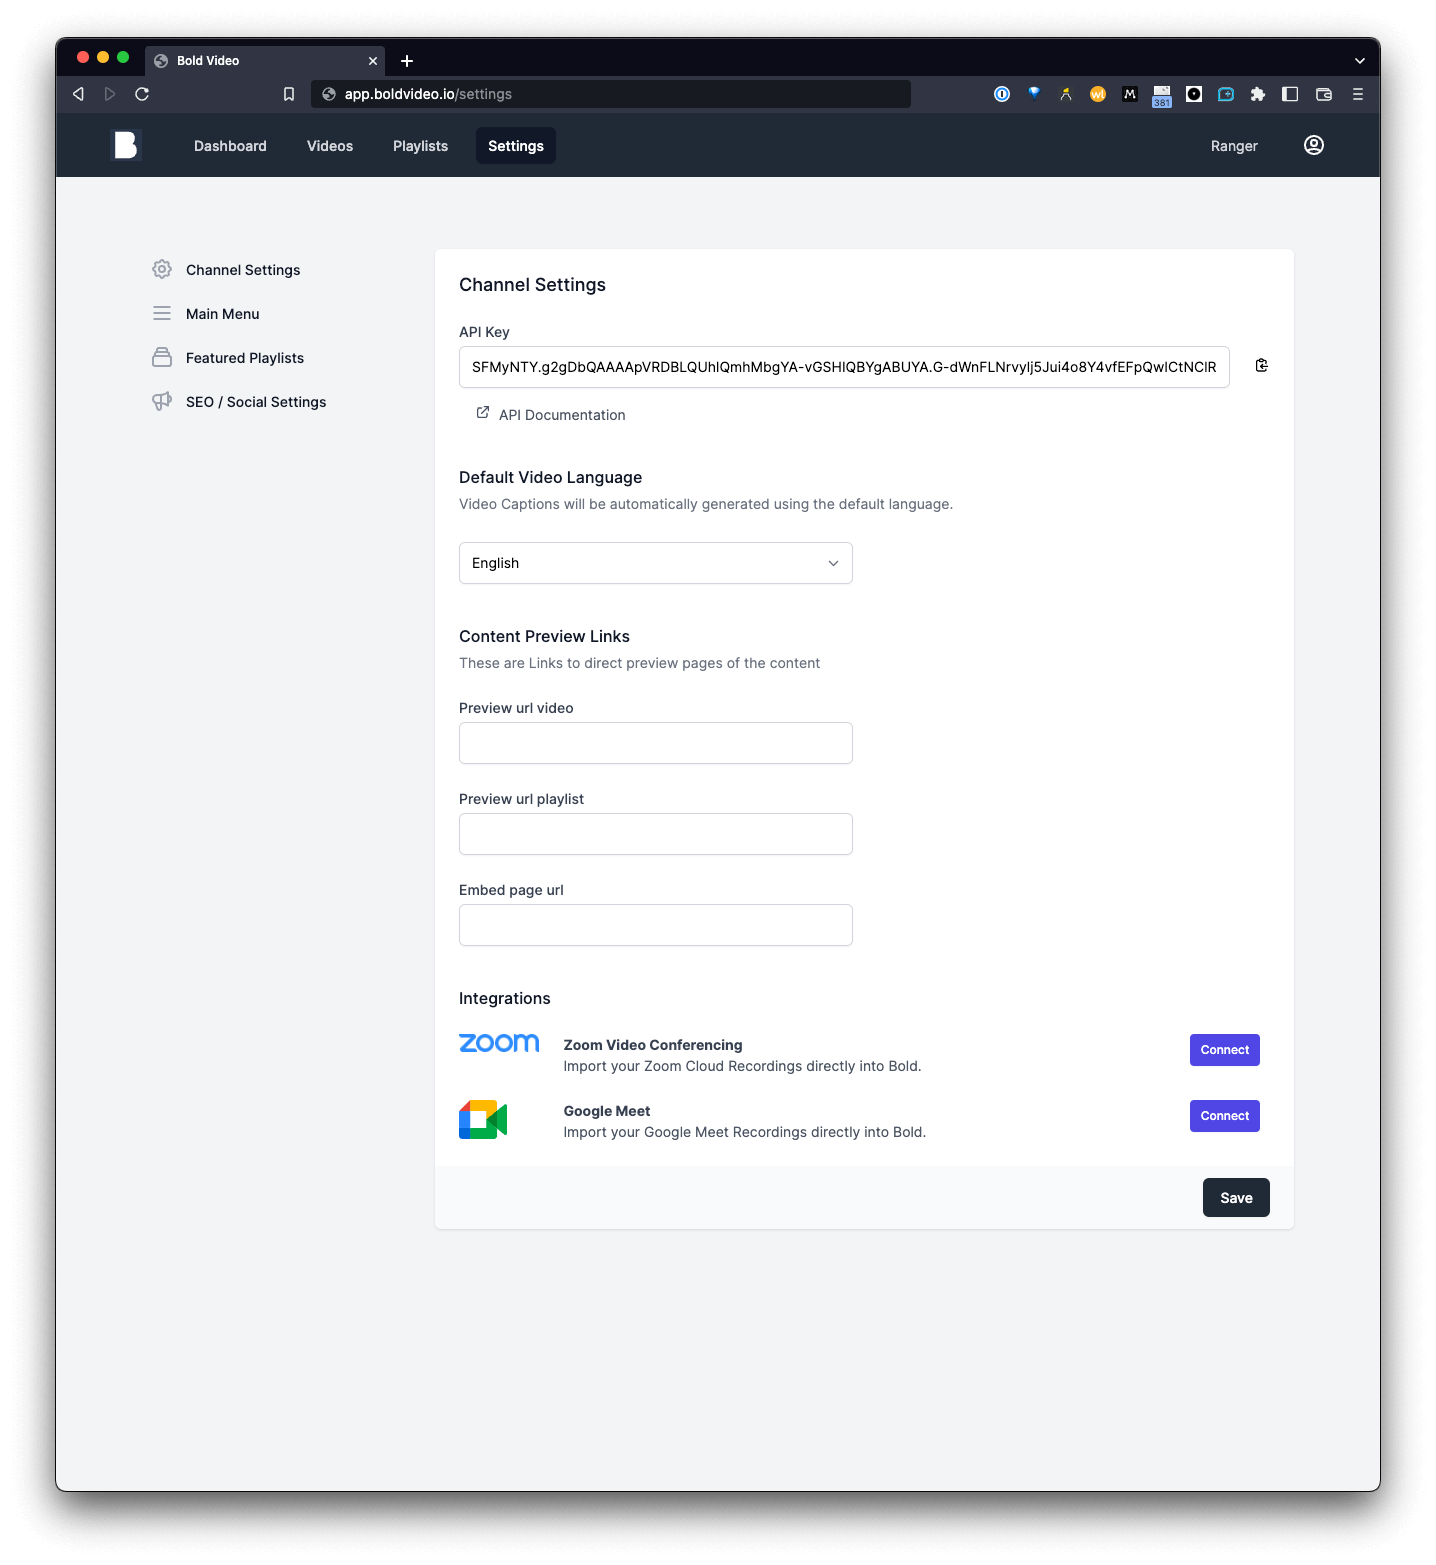
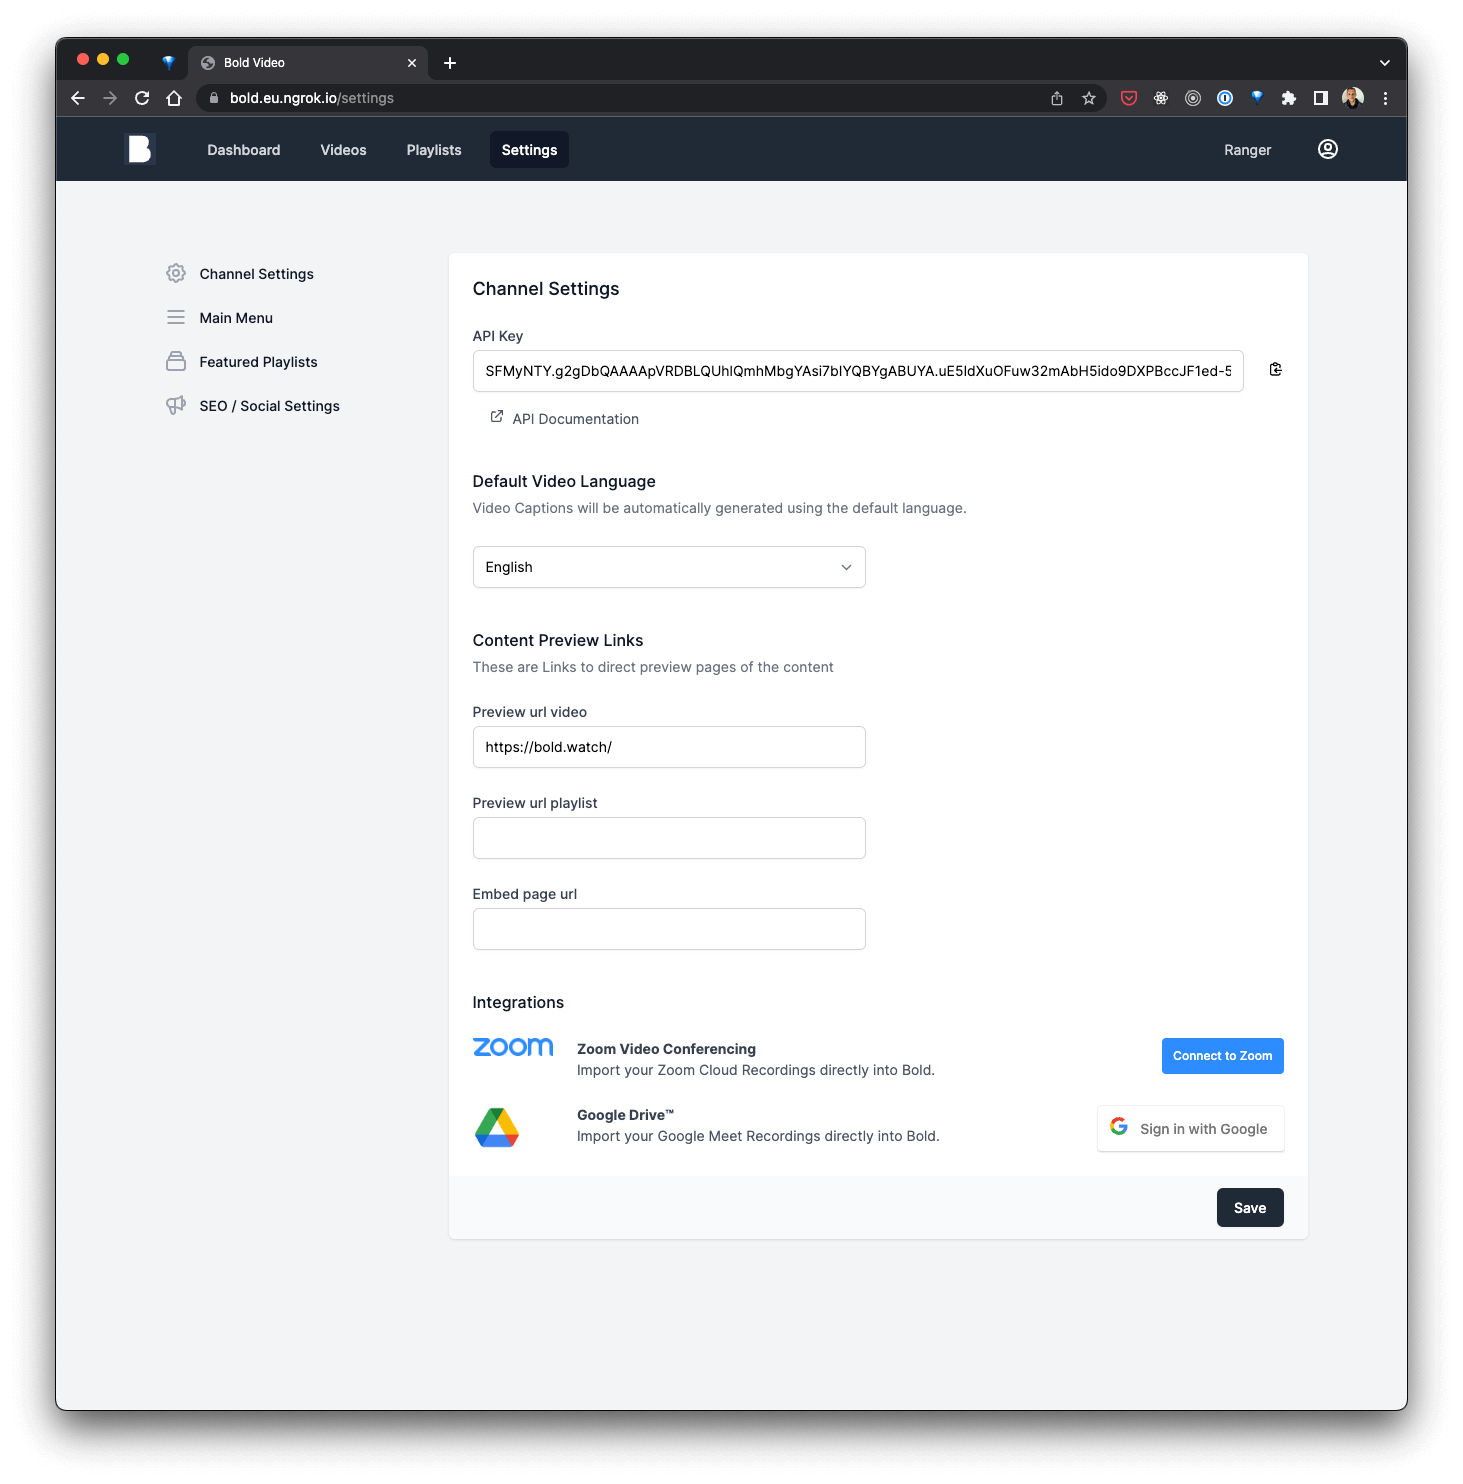
updates google drive docs

diff --git a/docs/Guides/google.md b/docs/Guides/google.md
@@ -6,46 +6,51 @@ sidebar_position: 2
 
 Instead of manually uploading the recordings of your Google Meetings, you can now use our Google Drive Integration to import recordings directly.
 
-To get started you need to first authenticate with a Google Account. To that, open the [settings page](https://app.boldvideo.io/settings) in your Bold Admin panel:
+To get started you need to first authenticate with a Google Account. To do that, open the [settings page](https://app.boldvideo.io/settings) in your Bold Admin panel:
 
 ![Authenticate with Google](/img/google-screen1.png)
 
-Click the "Connect"-Button next to the Google Meet Logo and, if prompted, enter the credentials to your Google-Account. 
+Click the "Sign in with Google"-Button next to the Google Drive Logo and, if prompted, enter the credentials to your Google-Account. 
 
 ![Authenticate with Google](/img/google-screen2.png)
 
-Once connected, you should see your Google email, first- and lastname and Photo in your Bold Settings Page:
+Once connected, you should see your Google email, first- and lastname as well as your profile photo in your Bold Settings Page:
 
 ![Connected to Google](/img/google-screen3.png)
 
-You can now head back to your [video library](https://app.boldvideo.io/videos) where you should see a new button in the top right corner "Google Meet Import".
+You can now head back to your [video library](https://app.boldvideo.io/videos) where you should see a new button in the top right corner "Google Drive Import".
 
-If you activate the checkbox "Zoom synchronisation", Bold will import every upcoming Zoom Meeting that is being recorded to the Zoom Cloud into your video library.
+![Import from Google Drive](/img/google-screen4.png)
 
-Once you finish a Zoom Meeting and the recording has stopped, you'll see a notification at the top of [your video library](https://app.boldvideo.io/videos). When the processing on Zoom's side is done, the video will be automatically added to your video library.
+Click that button to open the Google Meet Recordings folder of the connected Google Drive Account:
 
-![Zoom notification](/img/zoom-screen3.png)
+![Google Meet Recordings](/img/google-screen5.png)
+
+Once you click the "Import" Button on video, it gets imported right away into your video library. Once import is completed it gets re-encoded, optimized and transcribed. This process can take up to a few minutes.
+
+![Google Meet Recordings](/img/google-screen6.png)
 
 :::info
-All imported recordings will have the status "unlisted" so that they don't accidentally show up in any of your connected frontends or clients.
+The window only shows you the contents of the "Meet Recordings" folder inside the Google Drive of the connected account, which is the default storage folder for Google Meet.
 :::
+
 
 ## How to uninstall
 
-To disconnect your Zoom Account from Bold, simply click the "Remove"-Button near the Zoom Integration section on your [settings page](https://app.boldvideo.io/settings).
+To disconnect your Google Dive Account from Bold, simply click the "Remove"-Button near the Google Drive Integration section on your [settings page](https://app.boldvideo.io/settings).
 
-![Disconnect Zoom](/img/zoom-screen4.png)
+![Disconnect Google](/img/google-screen7.png)
 
 ## FAQ
 
 <details>
-  <summary>Can I also import past recordings from Zoom Cloud?</summary>
+  <summary>Will the recordings be transcribed?</summary>
   <div>
-    Not at this point. A recordings browser to import past meetings is currently being developed and will be released in the coming weeks.
+    Yes, all videos that are added to your video library are being transcribed.
   </div>
 </details>
 <details>
-  <summary>Does Bold re-encode the Zoom Recordings?</summary>
+  <summary>Does Bold re-encode the Google Meet Recordings?</summary>
   <div>
     Yes, all imported videos are encoded into the same Adaptive Bitrate HLS format, to ensure always the best experience and the right video size for a viewer's device and connection speed.
   </div>

diff --git a/docs/Guides/index.md b/docs/Guides/index.md
@@ -7,3 +7,4 @@ sidebar_position: 1
 Bold Video currently integrates with the following services:
 
 - [Zoom](/docs/Guides/zoom)
+- [Google Drive™](/docs/Guides/google)
